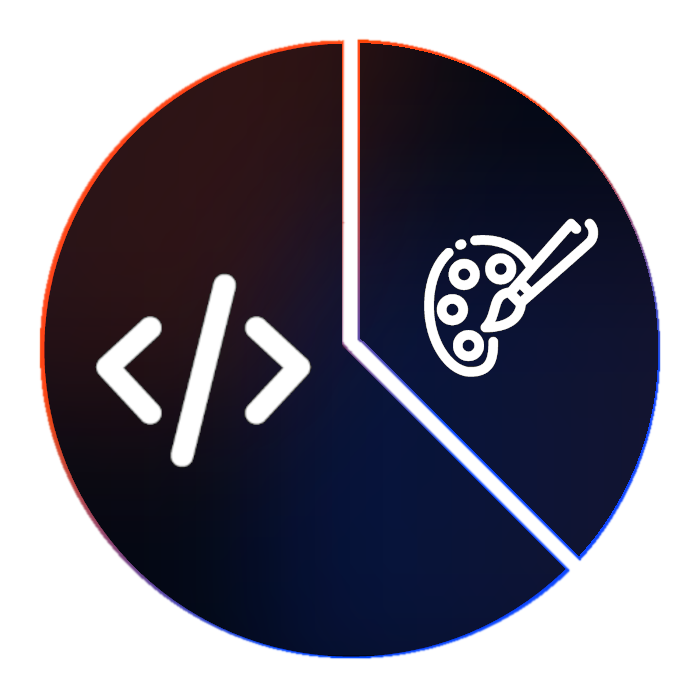
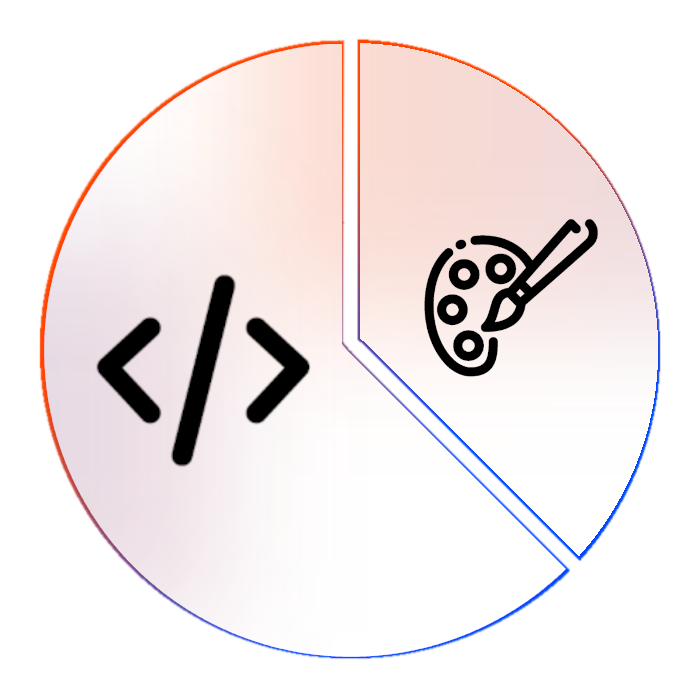
style(pie chart): update pie chart graphic

diff --git a/react-portfolio/src/Components/PieChart.tsx b/react-portfolio/src/Components/PieChart.tsx
@@ -26,12 +26,12 @@ export default function PieChart() {
           </ul>
         </div>
 
-        <div className="2xl:mx-[5%] col-span-4 -mx-8 dark:md:block hidden">
+        <div className="2xl:mx-[5%] col-span-4 -mx-8 dark:hidden md:block hidden">
           <img src="media/pie-chart.png" alt="Coder and Designer Pie Chart" />
         </div>
 
-        <div className="col-span-4 -mx-8 dark:hidden md:block hidden">
-          <img src="media/pie-chart1.png" alt="Coder and Designer Pie Chart" />
+        <div className="2xl:mx-[5%] col-span-4 -mx-8 dark:md:block hidden">
+          <img src="media/pie-chart-dark.png" alt="Coder and Designer Pie Chart" />
         </div>
 
         <div className="md:col-span-4 col-span-6 lg:pr-[15%] md:pr-[5%] md:pl-0 sm:pl-5 text-dark dark:text-white">

diff --git a/react-portfolio/src/Pages/Portfolio.tsx b/react-portfolio/src/Pages/Portfolio.tsx
@@ -26,14 +26,14 @@ export default function Portfolio() {
           </div>
           <div className="hidden -z-10 md:col-span-12 md:flex items-center justify-center md:h-[245px] pt-10 space-x-[2vw]">
             <img
-              src="media/MD.png"
+              src="media/MD-Logo.png"
               alt="Modern Dev Logo"
-              className="w-auto h-[6vw] hidden dark:block"
+              className="w-auto h-[5.7vw] dark:hidden"
              />
             <img
-              src="media/MD2.png"
+              src="media/MD-Logo-dark.png"
               alt="Modern Dev Logo"
-              className="w-auto h-[5.3vw] dark:hidden"
+              className="w-auto h-[6vw] hidden dark:block"
              />
             <img
               src="media/CD.png"
